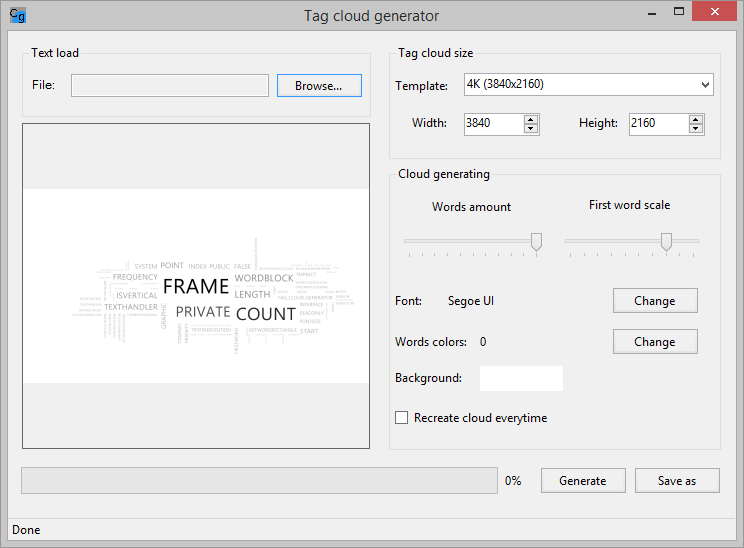
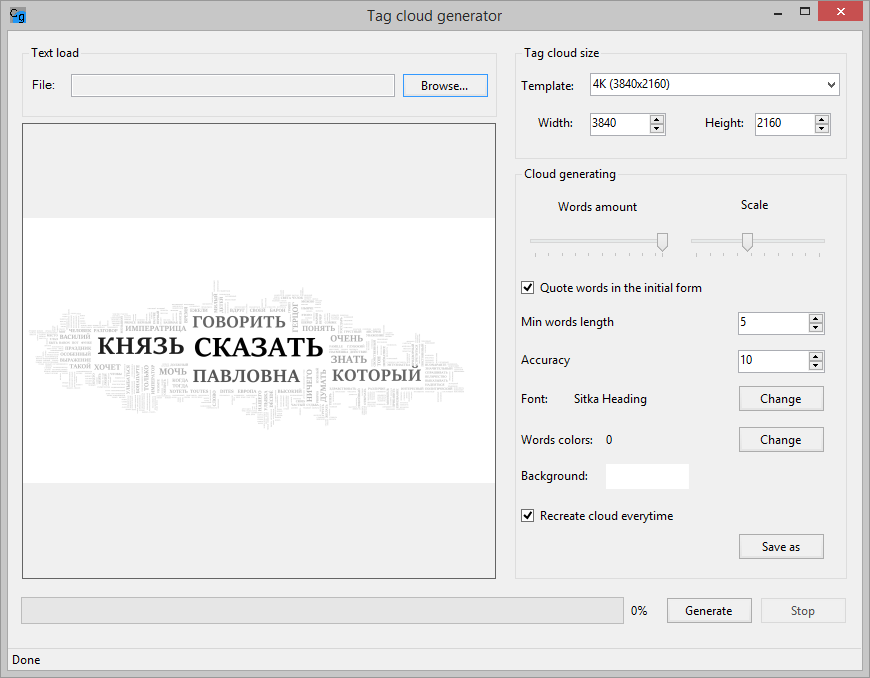
Обновил превью. Изменил максимальный размер окна

diff --git a/Tag Cloud Generator/MainForm.Designer.cs b/Tag Cloud Generator/MainForm.Designer.cs
@@ -474,7 +474,7 @@
             this.cloudImageBox.BorderStyle = System.Windows.Forms.BorderStyle.FixedSingle;
             this.cloudImageBox.Location = new System.Drawing.Point(14, 92);
             this.cloudImageBox.Name = "cloudImageBox";
-            this.cloudImageBox.Size = new System.Drawing.Size(474, 497);
+            this.cloudImageBox.Size = new System.Drawing.Size(474, 456);
             this.cloudImageBox.SizeMode = System.Windows.Forms.PictureBoxSizeMode.Zoom;
             this.cloudImageBox.TabIndex = 4;
             this.cloudImageBox.TabStop = false;
@@ -485,7 +485,7 @@
             this.generateCloudButton.BackColor = System.Drawing.SystemColors.ButtonFace;
             this.generateCloudButton.BackgroundImageLayout = System.Windows.Forms.ImageLayout.None;
             this.generateCloudButton.Enabled = false;
-            this.generateCloudButton.Location = new System.Drawing.Point(658, 607);
+            this.generateCloudButton.Location = new System.Drawing.Point(658, 566);
             this.generateCloudButton.Name = "generateCloudButton";
             this.generateCloudButton.Size = new System.Drawing.Size(87, 27);
             this.generateCloudButton.TabIndex = 6;
@@ -498,7 +498,7 @@
             this.cloudCreatingProgress.Anchor = ((System.Windows.Forms.AnchorStyles)(((System.Windows.Forms.AnchorStyles.Bottom | System.Windows.Forms.AnchorStyles.Left) 
             | System.Windows.Forms.AnchorStyles.Right)));
             this.cloudCreatingProgress.BackColor = System.Drawing.SystemColors.ControlDark;
-            this.cloudCreatingProgress.Location = new System.Drawing.Point(13, 607);
+            this.cloudCreatingProgress.Location = new System.Drawing.Point(13, 566);
             this.cloudCreatingProgress.Name = "cloudCreatingProgress";
             this.cloudCreatingProgress.Size = new System.Drawing.Size(603, 27);
             this.cloudCreatingProgress.TabIndex = 7;
@@ -513,7 +513,7 @@
             // 
             this.programStatusStrip.Items.AddRange(new System.Windows.Forms.ToolStripItem[] {
             this.programStatus});
-            this.programStatusStrip.Location = new System.Drawing.Point(0, 658);
+            this.programStatusStrip.Location = new System.Drawing.Point(0, 617);
             this.programStatusStrip.Name = "programStatusStrip";
             this.programStatusStrip.Padding = new System.Windows.Forms.Padding(1, 0, 16, 0);
             this.programStatusStrip.Size = new System.Drawing.Size(854, 22);
@@ -544,7 +544,7 @@
             this.progressLabel.AutoSize = true;
             this.progressLabel.BackColor = System.Drawing.Color.Transparent;
             this.progressLabel.FlatStyle = System.Windows.Forms.FlatStyle.Popup;
-            this.progressLabel.Location = new System.Drawing.Point(620, 613);
+            this.progressLabel.Location = new System.Drawing.Point(620, 572);
             this.progressLabel.Name = "progressLabel";
             this.progressLabel.Size = new System.Drawing.Size(23, 15);
             this.progressLabel.TabIndex = 8;
@@ -559,7 +559,7 @@
             this.cancelCreatingButton.Anchor = ((System.Windows.Forms.AnchorStyles)((System.Windows.Forms.AnchorStyles.Bottom | System.Windows.Forms.AnchorStyles.Right)));
             this.cancelCreatingButton.BackgroundImageLayout = System.Windows.Forms.ImageLayout.None;
             this.cancelCreatingButton.Enabled = false;
-            this.cancelCreatingButton.Location = new System.Drawing.Point(752, 607);
+            this.cancelCreatingButton.Location = new System.Drawing.Point(752, 566);
             this.cancelCreatingButton.Name = "cancelCreatingButton";
             this.cancelCreatingButton.Size = new System.Drawing.Size(87, 27);
             this.cancelCreatingButton.TabIndex = 9;
@@ -605,7 +605,7 @@
             this.AutoScaleDimensions = new System.Drawing.SizeF(7F, 15F);
             this.AutoScaleMode = System.Windows.Forms.AutoScaleMode.Font;
             this.BackColor = System.Drawing.SystemColors.ButtonFace;
-            this.ClientSize = new System.Drawing.Size(854, 680);
+            this.ClientSize = new System.Drawing.Size(854, 639);
             this.Controls.Add(this.cancelCreatingButton);
             this.Controls.Add(this.progressLabel);
             this.Controls.Add(this.cloudCreatingProgress);
@@ -617,7 +617,7 @@
             this.Controls.Add(this.textLoadGroup);
             this.Font = new System.Drawing.Font("Segoe UI", 9F, System.Drawing.FontStyle.Regular, System.Drawing.GraphicsUnit.Point, ((byte)(204)));
             this.Icon = ((System.Drawing.Icon)(resources.GetObject("$this.Icon")));
-            this.MinimumSize = new System.Drawing.Size(870, 635);
+            this.MinimumSize = new System.Drawing.Size(870, 678);
             this.Name = "MainForm";
             this.Text = "Tag cloud generator";
             this.FormClosing += new System.Windows.Forms.FormClosingEventHandler(this.MainForm_FormClosing);
